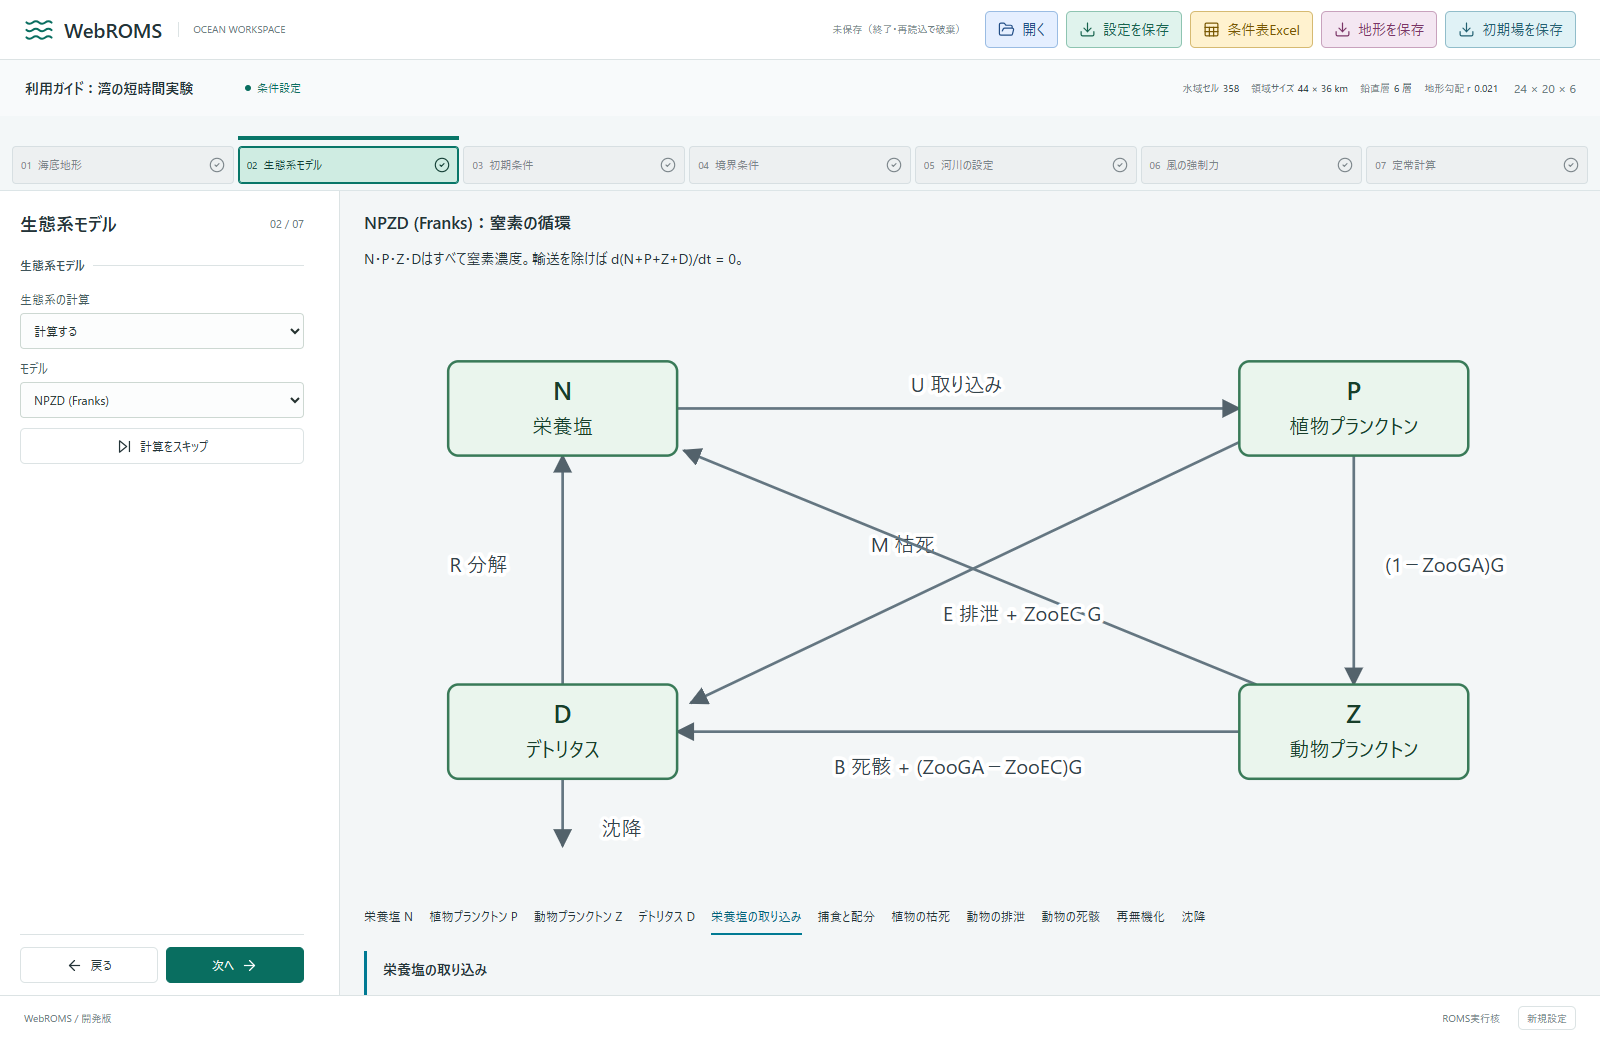
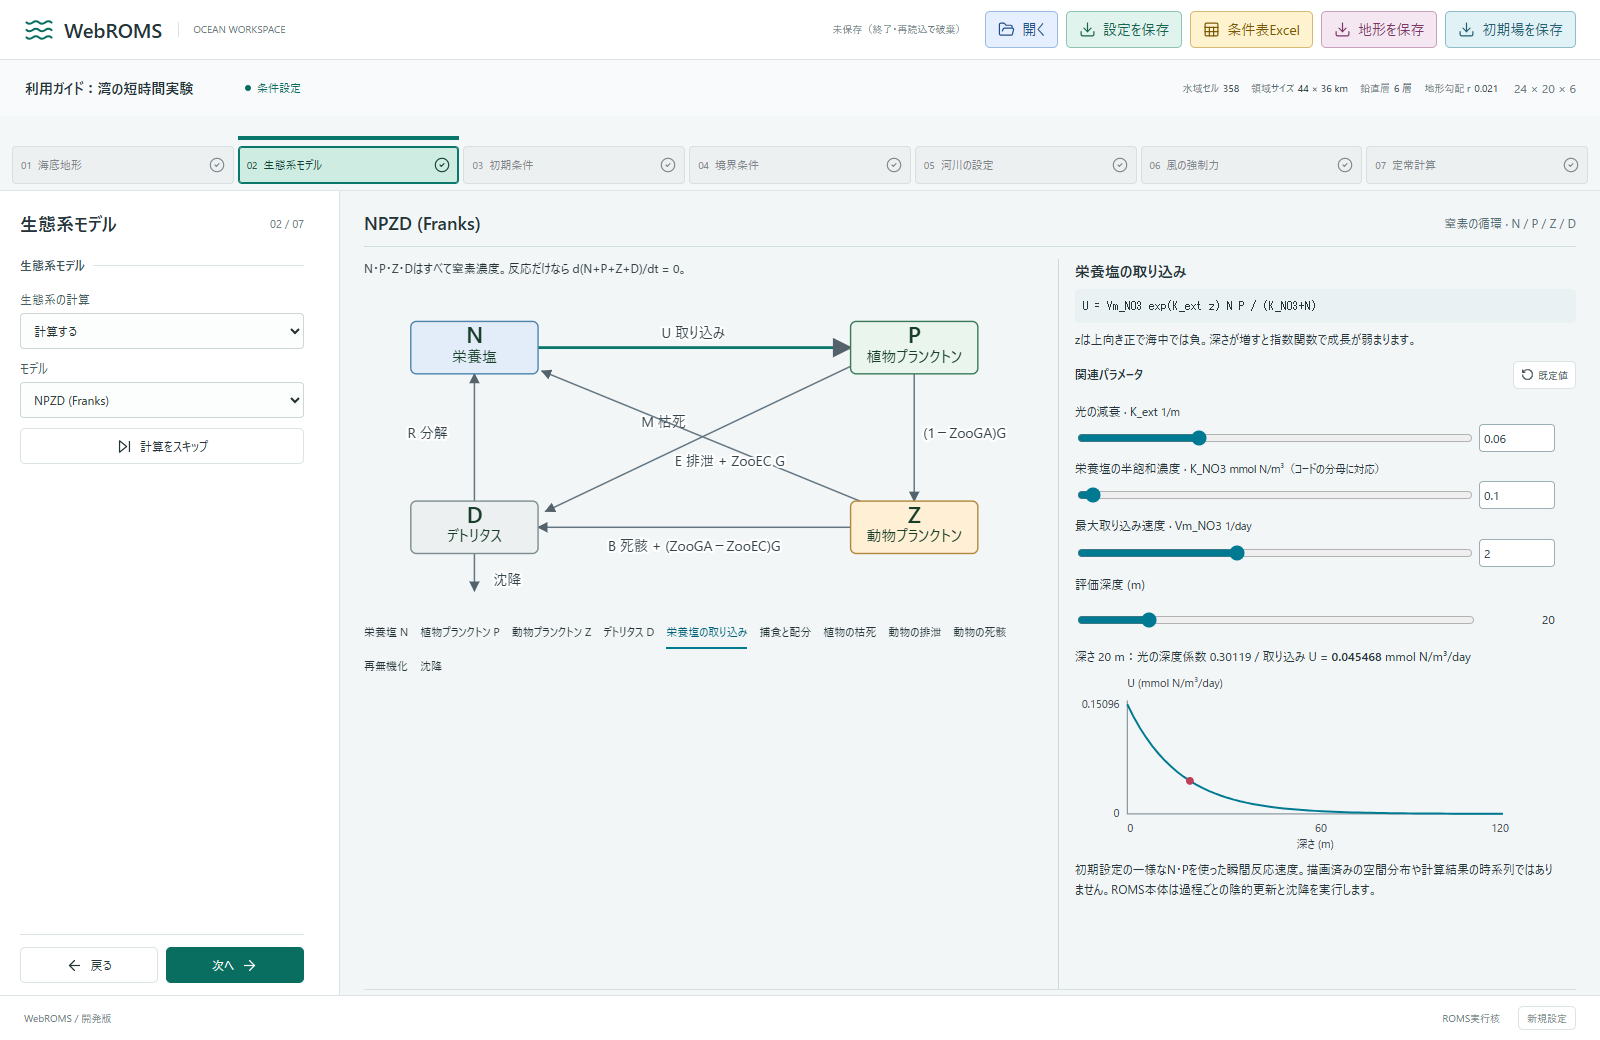
エコシステムの改善
エコシステムのUI改善

diff --git a/src/ecosystem-panel.js b/src/ecosystem-panel.js
@@ -69,6 +69,13 @@ const nemuroTopics = {
   silicon: ['ケイ素の循環', 'dSiOH/dt = RSiN(−GppPL+ResPL+ExcPL) + VO2S0 exp(KO2S T) opal\ndopal/dt = RSiN(MorPL+GraPL2ZL+GraPL2ZP) − VO2S0 exp(KO2S T) opal', 'PLに結合したケイ素は死亡・捕食でopalへ移ります。opalは溶解でSiOHに戻り、setVOpalで沈降します。上式は輸送を除く反応項です。']
 };
 
+const npzdRelated = { U: ['Vm_NO3', 'K_ext', 'K_NO3'], G: ['ZooGR', 'K_Phy', 'ZooGA', 'ZooEC'], M: ['PhyMR'], E: ['ZooMR'], B: ['ZooMD'], R: ['DetRR'], sink: ['wDet'], N: ['Vm_NO3', 'K_NO3', 'ZooEC', 'ZooMR', 'DetRR'], P: ['Vm_NO3', 'K_ext', 'ZooGR', 'PhyMR'], Z: ['ZooGR', 'ZooGA', 'ZooMR', 'ZooMD'], D: ['PhyMR', 'ZooGA', 'ZooEC', 'ZooMD', 'DetRR', 'wDet'] };
+const nemuroRelated = { production: /^(Vmax|KGpp|KNO3|KNH4|KSi|Pusa|RSi)/, light: /^(Att|AlphaP|BetaP|PARfrac|Vmax)/, grazing: /^(GRmax|KGra|Lam|AlphaZ|BetaZ|Pus|.*star$)/, mortality: /^(Res|KRes|Gamma|Mor|KMor)/, recycle: /^(Nit|KNit|VP2|KP2|VD2|KD2|setVPON)/, silicon: /^(RSi|VO2|KO2|setVOpal)/ };
+function relatedParameters(config, topic) { const all = BIO_MODELS[config.ecosystem.model].parameters; return all.filter(p => config.ecosystem.model === 'npzd' ? (npzdRelated[topic] ?? []).includes(p.key) : nemuroRelated[topic]?.test(p.key)); }
+function inspector(config, topic, depth = 20) {
+  const topics = config.ecosystem.model === 'npzd' ? npzdTopics : nemuroTopics, p = parameters(config), related = relatedParameters(config, topic);
+  return `<div class="eco-inspector-fixed">${topicHtml(topics[topic])}<div class="eco-inspector-heading"><strong>関連パラメータ</strong><button type="button" data-eco-reset title="この反応の係数を原典の既定値へ戻す"><i data-lucide="rotate-ccw"></i>既定値</button></div></div><div class="eco-parameter-scroll" role="region" aria-label="関連パラメータと反応グラフ" tabindex="0"><div class="eco-lesson-controls eco-quick-controls">${related.map(item => parameterControl(item, p[item.key], config.ecosystem.model === 'npzd')).join('')}</div>${config.ecosystem.model === 'npzd' && ['U', 'N', 'P'].includes(topic) ? `<label class="eco-lesson-control"><span>評価深度 (m)</span><input type="range" data-eco-depth min="0" max="120" step="1" value="${depth}" aria-label="評価深度"><output data-eco-depth-value>${depth}</output></label><div data-eco-chart>${chart(config, depth)}</div>` : ''}</div>`;
+}
 function topicHtml(topic) {
   return `<h4>${escape(topic[0])}</h4><pre>${escape(topic[1])}</pre><p>${escape(topic[2])}</p>`;
 }
@@ -117,7 +124,9 @@ function parameterControl(p, value, range = false) {
   const minimum = p.key === 'BioIter' ? 1 : 0;
   // K_NO3's catalog unit contradicts the denominator in npzd_Franks.h.
   const unit = p.key === 'K_NO3' ? 'mmol N/m³（コードの分母に対応）' : p.unit;
-  return `<label class="eco-lesson-control"><span>${escape(p.key)} <small>${escape(unit || '単位は入力原典を参照')}</small></span><input type="${range ? 'range' : 'number'}" data-eco-param="${p.key}" aria-label="${p.key}" min="${minimum}" ${range ? `max="${Math.max(value * 2, p.key === 'K_ext' ? 0.2 : 5)}"` : 'max="1000000000"'} step="${p.key === 'BioIter' ? '1' : range ? '0.001' : 'any'}" value="${escape(value)}">${range ? `<output data-eco-value="${p.key}">${fmt(value)}</output>` : ''}</label>`;
+  const names = { K_ext: '光の減衰', K_NO3: '栄養塩の半飽和濃度', K_Phy: '餌の半飽和濃度', Vm_NO3: '最大取り込み速度', PhyMR: '植物の枯死速度', ZooGR: '捕食速度', ZooGA: '捕食の非成長割合', ZooEC: '捕食に伴う排泄割合', ZooMR: '動物の排泄速度', ZooMD: '動物の死亡速度', DetRR: '再無機化速度', wDet: '沈降速度', BioIter: '反応の反復回数' };
+  const caption = names[p.key] ? `${names[p.key]} · ${p.key}` : p.key;
+  return `<label class="eco-lesson-control"><span>${escape(caption)} <small>${escape(unit || '単位は入力原典を参照')}</small></span><input type="${range ? 'range' : 'number'}" data-eco-param="${p.key}" aria-label="${p.key}" min="${minimum}" ${range ? `max="${Math.max(value * 2, p.key === 'K_ext' ? 0.2 : 5)}"` : 'max="1000000000"'} step="${p.key === 'BioIter' ? '1' : range ? '0.001' : 'any'}" value="${escape(value)}">${range ? `<input class="eco-exact-value" type="number" data-eco-param="${p.key}" aria-label="${p.key} 数値" min="${minimum}" max="1000000000" step="any" value="${escape(value)}"><output hidden data-eco-value="${p.key}">${fmt(value)}</output>` : ''}</label>`;
 }
 function chart(config, depth) {
   const rates = npzdRates(config, depth);
@@ -130,9 +139,15 @@ function chart(config, depth) {
 export function renderEcosystemPanel(config) {
   if (!supported(config)) return '<section class="eco-lesson"><p>この学習パネルはNPZDとNEMUROに対応しています。</p></section>';
   const model = config.ecosystem.model, definition = BIO_MODELS[model], p = parameters(config);
-  const topics = model === 'npzd' ? npzdTopics : nemuroTopics;
-  const initialTopic = model === 'npzd' ? 'U' : 'production';
-  return `<section class="eco-lesson" data-eco-model="${model}" aria-label="生態系の学習"><h3>${definition.label}：${model === 'npzd' ? '窒素の循環' : '窒素とケイ素の循環'}</h3>${!config.ecosystem.enabled ? '<p class="eco-lesson-note">生態系計算は無効です。以下は保存された設定による学習表示です。</p>' : ''}<p>${model === 'npzd' ? 'N・P・Z・Dはすべて窒素濃度。輸送を除けば d(N+P+Z+D)/dt = 0。' : '代表経路の模式図。窒素は実線、ケイ素は破線。PS・PLと3種類の動物、無機・有機物の11成分を扱います。全捕食経路は「食物網と捕食」に記載。'}</p>${diagram(model)}<div class="eco-lesson-topics" aria-label="反応過程">${Object.entries(topics).map(([key, topic]) => `<button type="button" data-eco-topic="${key}" aria-pressed="${key === initialTopic}">${topic[0]}</button>`).join('')}</div><div class="eco-lesson-equation" data-eco-explanation aria-live="polite">${topicHtml(topics[initialTopic])}</div>${model === 'npzd' ? `<section class="eco-lesson-growth"><h4>光と現在の成長条件</h4><p>Franksの光制限は exp(−K_ext × 深さ)。短波放射SWはこの成長式には入りません。</p><div class="eco-lesson-controls">${['Vm_NO3', 'K_ext', 'K_NO3'].map(key => parameterControl(definition.parameters.find(p => p.key === key), p[key], true)).join('')}<label class="eco-lesson-control"><span>評価深度 (m)</span><input type="range" data-eco-depth min="0" max="120" step="1" value="20" aria-label="評価深度"><output data-eco-depth-value>20</output></label></div><div data-eco-chart>${chart(config, 20)}</div><p class="eco-lesson-note">K_NO3は入力カタログで「逆半飽和」と記載されていますが、実装の分母は K_NO3+N です。ここでは実装の式と濃度次元を採用します。ZooEC ≤ ZooGA ≤ 1 が非負の捕食配分に必要です。</p></section>` : '<p class="eco-lesson-note">表示式は反応速度の表現です。ROMSは生産・呼吸・分解などを順次陰的更新し、このビルドの捕食はIVLEV_EXPLICITで計算します。</p>'}<details class="eco-lesson-details"><summary>全パラメーター (${definition.parameters.length})</summary><div class="eco-lesson-controls">${definition.parameters.map(item => parameterControl(item, p[item.key])).join('')}</div></details><details class="eco-lesson-details"><summary>初期濃度と質量換算</summary><p>Redfield C:N:P = 106:16:1（モル比）。C・Pは換算相当量であり、無機栄養塩を含め実際の炭素量・リン量・生物量ではありません。Siは元素質量です。</p><dl class="eco-lesson-masses">${definition.tracers.map(t => { const value = config.ecosystem.initial?.[t.key] ?? t.initial; return `<dt>${escape(t.label)}：${fmt(value)} ${escape(t.unit)}</dt><dd>${massEquivalent(value, t.unit)}</dd>`; }).join('')}</dl></details><p class="eco-lesson-sources">式の原典：<a href="https://github.com/myroms/roms/blob/57aecf589a408b1e5490d2db7f9bd0196062a44e/ROMS/Nonlinear/Biology/${model === 'npzd' ? 'npzd_Franks' : 'nemuro'}.h" target="_blank" rel="noopener">ROMS ${definition.label}</a> / <a href="https://github.com/myroms/roms/blob/57aecf589a408b1e5490d2db7f9bd0196062a44e/${definition.source.replace(/^roms\//, '')}" target="_blank" rel="noopener">パラメーターと単位</a>${model === 'nemuro' ? ' / 捕食設定：IVLEV_EXPLICIT' : ''}</p></section>`;
+  const topics = model === 'npzd' ? npzdTopics : nemuroTopics, initialTopic = model === 'npzd' ? 'U' : 'production';
+  return `<section class="eco-lesson" data-eco-model="${model}" data-selected-topic="${initialTopic}" aria-label="生態系の学習">
+    <header class="eco-workspace-heading"><h3>${definition.label}</h3><span>${model === 'npzd' ? '窒素の循環 · N / P / Z / D' : '窒素とケイ素の循環 · 11状態量'}</span></header>
+    <div class="eco-workbench"><div class="eco-circulation"><p class="eco-currency">${model === 'npzd' ? 'N・P・Z・Dはすべて窒素濃度。反応だけなら d(N+P+Z+D)/dt = 0。' : '窒素は実線、ケイ素は破線。代表経路を表示しています。'}</p>${diagram(model)}
+    <div class="eco-lesson-topics" aria-label="反応過程">${Object.entries(topics).map(([key, topic]) => `<button type="button" data-eco-topic="${key}" aria-pressed="${key === initialTopic}">${topic[0]}</button>`).join('')}</div></div>
+    <aside class="eco-reaction-inspector" aria-label="選択した反応の式と係数"><div class="eco-lesson-equation" data-eco-explanation aria-live="polite">${inspector(config, initialTopic)}</div></aside></div>
+    <details class="eco-lesson-details eco-parameter-list"><summary>全パラメーター (${definition.parameters.length}) <span>研究用・数値で直接編集</span></summary><label class="eco-parameter-search">パラメータを検索<input type="search" data-eco-search aria-label="パラメータを検索" placeholder="係数名・単位"></label><div class="eco-lesson-controls">${definition.parameters.map(item => parameterControl(item, p[item.key])).join('')}</div><p class="eco-lesson-note">K_NO3の単位はコードの分母に対応。NPZDの捕食配分は ZooEC ≤ ZooGA ≤ 1 が必要です。</p></details>
+    <details class="eco-lesson-details"><summary>初期濃度と質量換算</summary><p>Redfield C:N:P = 106:16:1（モル比）。C・Pは換算相当量であり、実際の炭素量・リン量・生物量ではありません。</p><dl class="eco-lesson-masses">${definition.tracers.map(t => { const value = config.ecosystem.initial?.[t.key] ?? t.initial; return `<dt>${escape(t.label)}：${fmt(value)} ${escape(t.unit)}</dt><dd>${massEquivalent(value, t.unit)}</dd>`; }).join('')}</dl></details>
+    <p class="eco-lesson-sources">表示は初期設定による瞬間反応の説明で、計算結果ではありません。ROMSは反応・輸送・沈降を時間積分します。原典：<a href="https://github.com/myroms/roms/blob/57aecf589a408b1e5490d2db7f9bd0196062a44e/ROMS/Nonlinear/Biology/${model === 'npzd' ? 'npzd_Franks' : 'nemuro'}.h" target="_blank" rel="noopener">ROMS ${definition.label}</a> / <a href="https://github.com/myroms/roms/blob/57aecf589a408b1e5490d2db7f9bd0196062a44e/${definition.source.slice(5)}" target="_blank" rel="noopener">パラメーターと単位</a>${model === 'nemuro' ? ' / 摂餌：IVLEV_EXPLICIT' : ''}</p></section>`;
 }
 
 const bindings = new WeakMap();
@@ -140,6 +155,7 @@ const bindings = new WeakMap();
 export function bindEcosystemPanel(container, config, onChange = () => {}) {
   bindings.get(container)?.();
   let depth = Number(container.querySelector('[data-eco-depth]')?.value ?? 20);
+  let selectedTopic = config.ecosystem.model === 'npzd' ? 'U' : 'production';
   const updateChart = () => {
     const graph = container.querySelector('[data-eco-chart]');
     if (graph) graph.innerHTML = chart(config, depth);
@@ -150,16 +166,27 @@ export function bindEcosystemPanel(container, config, onChange = () => {}) {
     const topics = config.ecosystem.model === 'npzd' ? npzdTopics : nemuroTopics;
     const topic = topics[control.dataset.ecoTopic];
     if (!topic) return;
-    container.querySelector('[data-eco-explanation]').innerHTML = topicHtml(topic);
-    container.querySelectorAll('button[data-eco-topic]').forEach(button => button.setAttribute('aria-pressed', String(button.dataset.ecoTopic === control.dataset.ecoTopic)));
+    selectedTopic = control.dataset.ecoTopic;
+    container.querySelector('[data-eco-model]').dataset.selectedTopic = selectedTopic;
+    container.querySelector('[data-eco-explanation]').innerHTML = inspector(config, selectedTopic, depth);
+    container.querySelectorAll('[data-eco-topic]').forEach(button => { const active = button.dataset.ecoTopic === selectedTopic; button.setAttribute('aria-pressed', String(active)); button.classList.toggle('eco-selected', active); });
+    globalThis.lucide?.createIcons();
   };
-  const click = event => select(event.target);
+  const click = event => {
+    if (event.target.closest?.('[data-eco-reset]')) {
+      config.ecosystem.parameters ??= {}; config.ecosystem.parameters[config.ecosystem.model] ??= parameters(config);
+      for (const item of relatedParameters(config, selectedTopic)) { config.ecosystem.parameters[config.ecosystem.model][item.key] = item.value; container.querySelectorAll(`[data-eco-param="${item.key}"]`).forEach(input => { input.value = item.value; input.setCustomValidity(''); }); }
+      select(container.querySelector(`[data-eco-topic="${selectedTopic}"]`)); onChange(config); return;
+    }
+    select(event.target);
+  };
   const keydown = event => {
     const control = event.target.closest?.('g[data-eco-topic]');
     if (control && ['Enter', ' '].includes(event.key)) { event.preventDefault(); select(control); }
   };
   const input = event => {
     const target = event.target;
+    if (target.matches?.('[data-eco-search]')) { const query = target.value.trim().toLowerCase(); container.querySelectorAll('.eco-parameter-list .eco-lesson-control').forEach(label => { label.hidden = !label.textContent.toLowerCase().includes(query); }); return; }
     if (target.matches?.('[data-eco-depth]')) {
       depth = Number(target.value);
       container.querySelector('[data-eco-depth-value]').textContent = fmt(depth);
@@ -191,6 +218,7 @@ export function bindEcosystemPanel(container, config, onChange = () => {}) {
   container.addEventListener('click', click);
   container.addEventListener('keydown', keydown);
   container.addEventListener('input', input);
+  select(container.querySelector(`[data-eco-topic="${selectedTopic}"]`));
   const unbind = () => {
     container.removeEventListener('click', click);
     container.removeEventListener('keydown', keydown);

diff --git a/ecosystem-panel.css b/ecosystem-panel.css
@@ -41,6 +41,48 @@
 .eco-lesson-masses dt { margin-top: 12px; font-weight: 600; }
 .eco-lesson-masses dd { margin: 4px 0 12px; overflow-wrap: anywhere; }
 .eco-lesson-sources a { color: #006b82; text-decoration: underline; }
+.eco-workspace-heading { display:flex; align-items:center; justify-content:space-between; flex-wrap:wrap; gap:8px; border-bottom:1px solid #cfdddf; padding-bottom:8px; }
+.eco-workspace-heading h3 { font-size:18px; margin:0; }
+.eco-workspace-heading span { font-size:12px; color:#526d74; }
+.eco-workbench { display:grid; grid-template-columns:minmax(0,1.3fr) minmax(310px,1fr); gap:20px; margin-top:12px; align-items:start; }
+.eco-circulation { position:sticky; top:8px; min-width:0; }
+.eco-lesson .eco-currency { margin:0 0 6px; font-size:12px; }
+.eco-circulation .eco-lesson-diagram { padding:0; overflow:visible; }
+.eco-circulation .eco-lesson-diagram svg { min-width:0; }
+.eco-lesson-node[data-eco-topic="N"] rect { fill:#e2edf9; stroke:#4e84ab; }
+.eco-lesson-node[data-eco-topic="Z"] rect { fill:#fff0d5; stroke:#b0873b; }
+.eco-lesson-node[data-eco-topic="D"] rect { fill:#edf0f0; stroke:#7b8d91; }
+.eco-lesson-node.eco-selected rect { stroke:#087668; stroke-width:3; }
+.eco-lesson-edge.eco-selected path:not(.eco-lesson-hit) { stroke:#087668; stroke-width:3; }
+.eco-reaction-inspector { min-width:0; height:calc(100dvh - 310px); min-height:330px; overflow:hidden; border-left:1px solid #cad9dc; padding-left:16px; }
+.eco-reaction-inspector .eco-lesson-equation { margin:0; border:0; padding:0; height:100%; display:flex; flex-direction:column; }
+.eco-inspector-fixed { flex-shrink:0; padding-bottom:5px; }
+.eco-parameter-scroll { flex:1; min-height:0; overflow-y:auto; overflow-x:hidden; overscroll-behavior:contain; scrollbar-gutter:stable; padding-right:6px; }
+.eco-reaction-inspector h4 { font-size:15px; margin:0 0 6px; }
+.eco-reaction-inspector pre { font-size:12px; line-height:1.5; background:#eaf1f3; padding:8px; border-radius:4px; }
+.eco-reaction-inspector p { font-size:12px; margin:7px 0; }
+.eco-inspector-heading { display:flex; align-items:center; justify-content:space-between; gap:6px; font-size:12px; margin-top:12px; }
+.eco-inspector-heading button { display:flex; align-items:center; gap:4px; font-size:10px; padding:4px 7px; min-height:28px; }
+.eco-inspector-heading svg { width:13px; height:13px; }
+.eco-quick-controls { grid-template-columns:1fr; gap:7px; padding:8px 0; }
+.eco-quick-controls .eco-lesson-control { grid-template-columns:minmax(0,1fr) 76px; font-size:12px; gap:3px 8px; }
+.eco-quick-controls .eco-exact-value { grid-column:2; padding:4px!important; min-height:28px; font-size:12px!important; }
+.eco-quick-controls .eco-lesson-control input.eco-exact-value { grid-column:2; height:28px; min-height:28px; }
+.eco-quick-controls .eco-lesson-control input[type="range"] { height:24px; padding:0; }
+.eco-quick-controls .eco-lesson-control input[type="range"] { min-height:24px; grid-column:1; }
+.eco-circulation .eco-lesson-node text { font-size:23px; }
+.eco-circulation .eco-lesson-node .eco-lesson-node-label { font-size:16px; }
+.eco-circulation .eco-lesson-edge text { font-size:15px; }
+.eco-reaction-inspector .eco-lesson-chart { max-height:180px; }
+.eco-reaction-inspector .eco-lesson-chart text { font-size:14px; }
+.eco-parameter-list summary span { font-size:11px; font-weight:400; margin-left:8px; color:#526d74; }
+.eco-parameter-search { display:flex; align-items:center; gap:8px; font-size:12px; margin-top:10px; }
+.eco-parameter-search input { width:230px; min-height:32px; padding:5px 8px; }
+.eco-lesson-control[hidden] { display:none; }
+.eco-lesson-topics { gap:2px 12px; margin:6px 0; }
+.eco-lesson-topics button { font-size:11px; min-height:28px; }
+@media(max-width:1100px) { .eco-workbench { grid-template-columns:1fr; } .eco-circulation { position:static; } .eco-reaction-inspector { height:auto; min-height:0; border-left:0; border-top:1px solid #cad9dc; padding:12px 0 0; } .eco-parameter-scroll { flex:auto; max-height:420px; } }
+@media(max-width:600px) { .eco-circulation .eco-lesson-diagram { overflow-x:auto; } .eco-circulation .eco-lesson-diagram svg { min-width:520px; } }
 @media (max-width: 600px) {
   .eco-lesson-control { grid-template-columns: minmax(0, 1fr) 4rem; }
   .eco-lesson-equation { padding: 8px 10px; }

diff --git a/tests/browser/ecosystem-workbench.spec.js b/tests/browser/ecosystem-workbench.spec.js
@@ -1,0 +1,45 @@
+import { test, expect, loadSettings, readSettings } from './app-fixture.js';
+import { defaults } from '../../src/model.js';
+
+test('diagram inspector and complete researcher parameters share the same values', async ({ page }) => {
+  const c = defaults(); c.ecosystem.enabled = true;
+  await page.goto('/'); await loadSettings(page, c); await page.locator('[data-step="1"]').click();
+  const left = await page.locator('.eco-circulation').boundingBox(), right = await page.locator('.eco-reaction-inspector').boundingBox();
+  expect(right.x).toBeGreaterThan(left.x + left.width);
+  await page.locator('g.eco-lesson-edge[data-eco-topic="G"]').first().click();
+  await expect(page.locator('[data-eco-explanation]')).toContainText('捕食と配分');
+  await expect(page.locator('g.eco-lesson-edge[data-eco-topic="G"]').first()).toHaveAttribute('aria-pressed', 'true');
+  await page.locator('.eco-quick-controls input[type="number"][data-eco-param="ZooGR"]').fill('0.8');
+  expect((await readSettings(page)).ecosystem.parameters.npzd.ZooGR).toBe(.8);
+  await page.locator('.eco-parameter-list>summary').click();
+  await expect(page.locator('.eco-parameter-list input[data-eco-param="ZooGR"]')).toHaveValue('0.8');
+  await page.getByLabel('パラメータを検索').fill('K_ext');
+  await expect(page.locator('.eco-parameter-list label.eco-lesson-control:visible')).toHaveCount(1);
+  await page.locator('.eco-parameter-list input[data-eco-param="K_ext"]').fill('0.12');
+  await page.locator('button[data-eco-topic="U"]').click();
+  await expect(page.locator('.eco-quick-controls input[type="number"][data-eco-param="K_ext"]')).toHaveValue('0.12');
+  await page.locator('[data-eco-reset]').click();
+  expect((await readSettings(page)).ecosystem.parameters.npzd.K_ext).toBe(c.ecosystem.parameters.npzd.K_ext);
+  await page.screenshot({ path: 'test-results/ecosystem-workbench-desktop.png' });
+  await page.setViewportSize({ width: 390, height: 844 });
+  expect(await page.evaluate(() => document.documentElement.scrollWidth)).toBeLessThanOrEqual(390);
+  await page.screenshot({ path: 'test-results/ecosystem-workbench-mobile.png', fullPage: true });
+});
+
+test('NEMURO keeps 84 parameters and exposes process-specific editing from the diagram', async ({ page }) => {
+  const c = defaults(); Object.assign(c.ecosystem, { enabled: true, model: 'nemuro' });
+  await page.goto('/'); await loadSettings(page, c); await page.locator('[data-step="1"]').click();
+  await expect(page.locator('.eco-parameter-list input[data-eco-param]')).toHaveCount(84);
+  await page.locator('button[data-eco-topic="light"]').click();
+  await expect(page.locator('[data-eco-explanation]')).toContainText('光制限と光阻害');
+  await page.locator('.eco-quick-controls input[data-eco-param="AlphaPS"]').fill('0.03');
+  expect((await readSettings(page)).ecosystem.parameters.nemuro.AlphaPS).toBe(.03);
+  const scroll = page.locator('.eco-parameter-scroll');
+  await scroll.evaluate(el => { el.scrollTop = 0; });
+  const headingBefore = await page.locator('.eco-inspector-fixed').boundingBox();
+  await scroll.evaluate(el => { el.scrollTop = 200; });
+  expect(await scroll.evaluate(el => el.scrollTop)).toBeGreaterThan(0);
+  const headingAfter = await page.locator('.eco-inspector-fixed').boundingBox();
+  expect(Math.abs(headingAfter.y - headingBefore.y)).toBeLessThan(1);
+  await page.screenshot({ path: 'test-results/ecosystem-workbench-nemuro.png' });
+});
